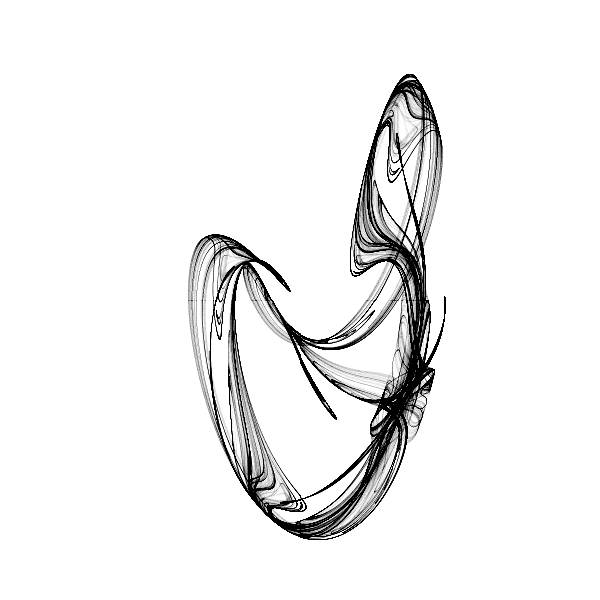
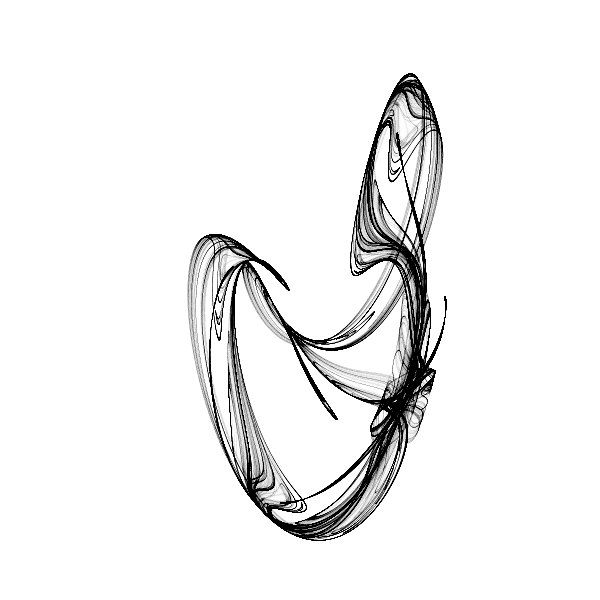
Use addblack to render Rossler

Changed region(s): [[0.3, 0.12, 0.75, 0.9]]

diff --git a/src/pickover_attractor.py b/src/pickover_attractor.py
@@ -2,17 +2,6 @@ from .img import img
 import math
 
 
-def darken(value, amount=1):
-    if value < amount:
-        return 0
-    return value - amount
-
-
-def addblack(pixel):
-    (r, g, b) = pixel
-    return (darken(r), darken(g), darken(b))
-
-
 def next_point(point, params):
     (x, y) = point
     (A, B, C, D) = params
@@ -27,9 +16,9 @@ def pickover_attractor(params, filename):
     y = 0
     for _ in range(0, 10000000):
         (x, y) = next_point((x, y), params)
-        rx = int(100 * x) + 300
-        ry = int(100 * y) + 300
-        i.putpixel(rx, ry, addblack(i.getpixel(rx, ry)))
+        rx = 100 * x + 300
+        ry = 100 * y + 300
+        i.addblack(rx, ry, 1)
     i.save(filename)
 
 
@@ -41,5 +30,5 @@ def main(dir):
         (-1.4, 1.6, 1.0, 0.7),
     ]
 
-    for [conf, index] in list(zip(confs, range(len(confs)))):
+    for index, conf in enumerate(confs):
         pickover_attractor(conf, dir + '/pickover-' + str(index) + '.png')

diff --git a/src/img.py b/src/img.py
@@ -10,6 +10,12 @@ def frange(x0, x1, step):
     yield x1
 
 
+def darken(value, amount):
+    if value < amount:
+        return 0
+    return value - amount
+
+
 class line:
     def __init__(self, p1, p2):
         (x1, y1) = p1
@@ -57,6 +63,17 @@ class img:
             return
         for i in range(0, 3):
             self.data[pos + i] = rgb[i]
+
+    def addblack(self, x, y, amount=1):
+        xi = round(x)
+        yi = round(y)
+        (r, g, b) = self.getpixel(xi, yi)
+        (r, g, b) = (
+            darken(r, amount),
+            darken(g, amount),
+            darken(b, amount)
+        )
+        self.putpixel(x, y, (r, g, b))
 
     def line(self, p1, p2):
         (x0, y0) = p1

diff --git a/src/rossler_attractor.py b/src/rossler_attractor.py
@@ -18,7 +18,7 @@ def main(outdir):
     points = scale(points, width, height)
 
     for p in points:
-        i.putpixel(p[0], p[1], (0, 0, 0))
+        i.addblack(p[0], p[1], 30)
 
     i.save(outdir + '/rossler.png')
 

diff --git a/README.md b/README.md
@@ -122,9 +122,9 @@ Credited to Otto Rossler and arose from work in chemical kinetics.
 
 This is a phase portrait of a chaotic system described as:
 
-    dx / dt = - y - z
-    dy / dt = x + a y
-    dz / dt = b + z ( x - c )
+    dx/dt = -y - z
+    dy/dt = x + a*y
+    dz/dt = b + z*(x - c)
 
 where:
 
